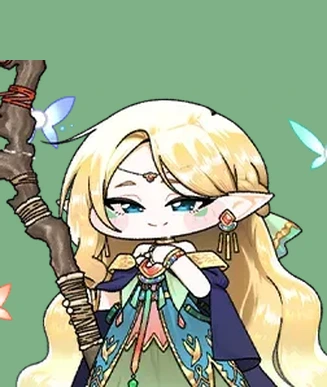
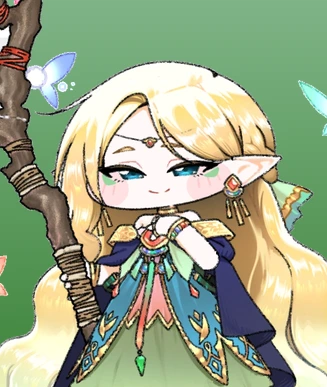
아이리스 카드 그림을 애니메이션에서 선명하게 다시 캡처, 표정 4종 제거
Claude-Session: https://claude.ai/code/session_01JyK9TdKp8mjbhrzUS8LgdW

diff --git a/index.html b/index.html
@@ -5,7 +5,7 @@
   <meta name="viewport" content="width=device-width, initial-scale=1, viewport-fit=cover">
   <title>트릭스터디 ~교주님 공부하세요!~</title>
   <meta name="description" content="트릭컬 사도들과 함께하는 공부 타이머 · 퀘스트 · 사도 모집">
-  <link rel="icon" href="assets/chibi/erpin.webp?v=13.99">
+  <link rel="icon" href="assets/chibi/erpin.webp?v=14.00">
   <link rel="preconnect" href="https://fonts.googleapis.com">
   <link rel="preconnect" href="https://fonts.gstatic.com" crossorigin>
   <link href="https://fonts.googleapis.com/css2?family=Jua&family=Gowun+Dodum&display=swap" rel="stylesheet">
@@ -13,8 +13,8 @@
     try { if (localStorage.getItem("trickstudy-mode") === "plain") document.documentElement.classList.add("plain"); } catch (e) {}
   </script>
   <link rel="stylesheet" href="css/spine-player.css">
-  <link rel="stylesheet" href="css/style.css?v=13.99">
-  <link rel="stylesheet" href="css/notebook.css?v=13.99" id="nb-css">
+  <link rel="stylesheet" href="css/style.css?v=14.00">
+  <link rel="stylesheet" href="css/notebook.css?v=14.00" id="nb-css">
   <script>/* 📓 기본 디자인 = 「교주의 공부 수첩」 틀 (오른쪽 색인 탭). 예전 배치는 주소 끝에 ?design=classic */
     (function () { if (new URLSearchParams(location.search).get("design") === "classic") { var l = document.getElementById("nb-css"); if (l) l.remove(); return; }
       document.documentElement.classList.add("nb"); })();
@@ -353,64 +353,64 @@
   <div id="modal-root"></div>
   <div id="toasts"></div>
 
-  <script src="js/sado.js?v=13.99"></script>
+  <script src="js/sado.js?v=14.00"></script>
   <script src="js/vendor/spine-player.min.js"></script>
-  <script src="js/spine-fix.js?v=13.99"></script>
-  <script src="js/spine-data.js?v=13.99"></script>
-  <script src="js/artifacts.js?v=13.99"></script>
-  <script src="js/ssbg-list.js?v=13.99"></script>
-  <script src="js/data.js?v=13.99"></script>
-  <script src="js/voice-text.js?v=13.99"></script>
-  <script src="js/sado-voice.js?v=13.99"></script>
-  <script src="js/sado-touch.js?v=13.99"></script>
-  <script src="js/app.js?v=13.99"></script>
-  <script src="js/affection.js?v=13.99"></script>
-  <script src="js/keepsakes.js?v=13.99"></script>
-  <script src="js/kyoju-note.js?v=13.99"></script>
-  <script src="js/banquet.js?v=13.99"></script>
-  <script src="js/phone.js?v=13.99"></script>
-  <script src="js/balance.js?v=13.99"></script>
-  <script src="js/profile.js?v=13.99"></script>
-  <script src="js/battle-lines.js?v=13.99"></script>
-  <script src="js/boss.js?v=13.99"></script>
-  <script src="js/party.js?v=13.99"></script>
-  <script src="js/schedule.js?v=13.99"></script>
-  <script src="js/grass.js?v=13.99"></script>
-  <script src="js/pip.js?v=13.99"></script>
-  <script src="js/emopip.js?v=13.99"></script>
-  <script src="js/ranking.js?v=13.99"></script>
-  <script src="js/bgm.js?v=13.99"></script>
-  <script src="js/title.js?v=13.99"></script>
-  <script src="js/event.js?v=13.99"></script>
-  <script src="js/season.js?v=13.99"></script>
-  <script src="js/growth.js?v=13.99"></script>
-  <script src="js/yearly.js?v=13.99"></script>
-  <script src="js/talk.js?v=13.99"></script>
-  <script src="js/knockgame.js?v=13.99"></script>
-  <script src="js/extras.js?v=13.99"></script>
-  <script src="js/tutorial.js?v=13.99"></script>
-  <script src="js/fixsubj.js?v=13.99"></script>
-  <script src="js/sync.js?v=13.99"></script>
-  <script src="js/r3.js?v=13.99"></script>
-  <script src="js/live.js?v=13.99"></script>
-  <script src="js/screensaver.js?v=13.99"></script>
-  <script src="js/pet.js?v=13.99"></script>
-  <script src="js/story-data.js?v=13.99"></script>
-  <script src="js/cg-catalog.js?v=13.99"></script>
-  <script src="js/theme-info.js?v=13.99"></script>
-  <script src="js/cg-video-map.js?v=13.99"></script>
-  <script src="js/story-data2.js?v=13.99"></script>
-  <script src="js/story-extra.js?v=13.99"></script>
-  <script src="js/story-s3.js?v=13.99"></script>
-  <script src="js/story-tt.js?v=13.99"></script>
-  <script src="js/story-refine.js?v=13.99"></script>
-  <script src="js/achieve-more.js?v=13.99"></script>
-  <script src="js/story.js?v=13.99"></script>
-  <script src="js/date.js?v=13.99"></script>
-  <script src="js/cgalbum.js?v=13.99"></script>
-  <script src="js/letter.js?v=13.99"></script>
-  <script src="js/studyroom.js?v=13.99"></script>
-  <script src="js/note-store.js?v=13.99"></script>
-  <script src="js/notes.js?v=13.99"></script>
+  <script src="js/spine-fix.js?v=14.00"></script>
+  <script src="js/spine-data.js?v=14.00"></script>
+  <script src="js/artifacts.js?v=14.00"></script>
+  <script src="js/ssbg-list.js?v=14.00"></script>
+  <script src="js/data.js?v=14.00"></script>
+  <script src="js/voice-text.js?v=14.00"></script>
+  <script src="js/sado-voice.js?v=14.00"></script>
+  <script src="js/sado-touch.js?v=14.00"></script>
+  <script src="js/app.js?v=14.00"></script>
+  <script src="js/affection.js?v=14.00"></script>
+  <script src="js/keepsakes.js?v=14.00"></script>
+  <script src="js/kyoju-note.js?v=14.00"></script>
+  <script src="js/banquet.js?v=14.00"></script>
+  <script src="js/phone.js?v=14.00"></script>
+  <script src="js/balance.js?v=14.00"></script>
+  <script src="js/profile.js?v=14.00"></script>
+  <script src="js/battle-lines.js?v=14.00"></script>
+  <script src="js/boss.js?v=14.00"></script>
+  <script src="js/party.js?v=14.00"></script>
+  <script src="js/schedule.js?v=14.00"></script>
+  <script src="js/grass.js?v=14.00"></script>
+  <script src="js/pip.js?v=14.00"></script>
+  <script src="js/emopip.js?v=14.00"></script>
+  <script src="js/ranking.js?v=14.00"></script>
+  <script src="js/bgm.js?v=14.00"></script>
+  <script src="js/title.js?v=14.00"></script>
+  <script src="js/event.js?v=14.00"></script>
+  <script src="js/season.js?v=14.00"></script>
+  <script src="js/growth.js?v=14.00"></script>
+  <script src="js/yearly.js?v=14.00"></script>
+  <script src="js/talk.js?v=14.00"></script>
+  <script src="js/knockgame.js?v=14.00"></script>
+  <script src="js/extras.js?v=14.00"></script>
+  <script src="js/tutorial.js?v=14.00"></script>
+  <script src="js/fixsubj.js?v=14.00"></script>
+  <script src="js/sync.js?v=14.00"></script>
+  <script src="js/r3.js?v=14.00"></script>
+  <script src="js/live.js?v=14.00"></script>
+  <script src="js/screensaver.js?v=14.00"></script>
+  <script src="js/pet.js?v=14.00"></script>
+  <script src="js/story-data.js?v=14.00"></script>
+  <script src="js/cg-catalog.js?v=14.00"></script>
+  <script src="js/theme-info.js?v=14.00"></script>
+  <script src="js/cg-video-map.js?v=14.00"></script>
+  <script src="js/story-data2.js?v=14.00"></script>
+  <script src="js/story-extra.js?v=14.00"></script>
+  <script src="js/story-s3.js?v=14.00"></script>
+  <script src="js/story-tt.js?v=14.00"></script>
+  <script src="js/story-refine.js?v=14.00"></script>
+  <script src="js/achieve-more.js?v=14.00"></script>
+  <script src="js/story.js?v=14.00"></script>
+  <script src="js/date.js?v=14.00"></script>
+  <script src="js/cgalbum.js?v=14.00"></script>
+  <script src="js/letter.js?v=14.00"></script>
+  <script src="js/studyroom.js?v=14.00"></script>
+  <script src="js/note-store.js?v=14.00"></script>
+  <script src="js/notes.js?v=14.00"></script>
 </body>
 </html>

diff --git a/js/title.js b/js/title.js
@@ -82,7 +82,7 @@ function showScene(done, mainId) {
   root.innerHTML = `
     <div class="ttl-bg" style="background-image:url('assets/title-bg.webp')"></div>
     <div class="ttl-logo"><span class="l2">트릭스터디</span><span class="l1">~교주님 공부하세요!~</span></div>
-    <div class="ttl-ver">Ver 13.99 · 교주 전용</div>
+    <div class="ttl-ver">Ver 14.00 · 교주 전용</div>
     <div class="ttl-copy">♥ Trickcal fan-made study</div>
     <div class="ttl-cast">${cast.map((id, i) => `<div class="ttl-actor a${i}" data-id="${id}"></div>`).join("")}</div>
     <div class="ttl-sweep"></div>
@@ -190,7 +190,7 @@ function show(done) {
   root.innerHTML = `
     <div class="ttl-bg" style="background-image:url('${bgSrc(s.bg || "trickcal")}')"></div>
     <div class="ttl-logo"><span class="l2">트릭스터디</span><span class="l1">~교주님 공부하세요!~</span></div>
-    <div class="ttl-ver">Ver 13.99 · 교주 전용</div>
+    <div class="ttl-ver">Ver 14.00 · 교주 전용</div>
     <div class="ttl-copy">♥ Trickcal fan-made study</div>
     <div class="ttl-face" id="ttl-face">
       <img id="ttl-img" src="${src}" alt="" draggable="false">

diff --git a/js/sado.js b/js/sado.js
@@ -99,7 +99,7 @@ const SADO = [
   { id: "pira", name: "피라", en: "Pira", rarity: 3, pers: "mad" },
   { id: "polan", name: "폴랑", en: "Polan", rarity: 3, pers: "mad" },
   { id: "renewa", name: "리뉴아", en: "Renewa", rarity: 3, lim: true, pers: "mad" },
-  { id: "iris", name: "아이리스", en: "Iris", rarity: 3, pers: "pure", emote: true }, // 2026.11 신규 (엘프 · 후열 딜러)
+  { id: "iris", name: "아이리스", en: "Iris", rarity: 3, pers: "pure" }, // 2026.11 신규 (엘프 · 후열 딜러)
   { id: "rim-chaos", name: "림(혼돈)", en: "Rim (Chaos)", rarity: 3, pers: "mad" },
   { id: "rollett", name: "룰렛", en: "Rollett", rarity: 3, pers: "mad" },
   { id: "ronnie", name: "로니", en: "Ronnie", rarity: 3, pers: "mad" },

diff --git a/js/app.js b/js/app.js
@@ -155,7 +155,7 @@ const titleOf = (c) => (SPECIAL_LINES[c.id] && SPECIAL_LINES[c.id].title) || `${
 const stars = (r) => "★".repeat(r);
 
 /* ───── 이미지 ───── */
-const chibiSrc = (c) => (isPlain() ? plainAvatar(c) : `assets/chibi/${c.id}.webp?v=2`);
+const chibiSrc = (c) => (isPlain() ? plainAvatar(c) : `assets/chibi/${c.id}.webp?v=3`);
 const emoteSrc = (c, i = 1) => (isPlain() ? plainAvatar(c) : c.emote ? `assets/emotes/${c.id}/${i}.webp` : chibiSrc(c)); // ?v= : 이미지를 바꾸면 숫자를 올려서 브라우저 캐시 무시
 const emoteCount = (c) => (c.emote && state.owned[c.id] ? state.owned[c.id].emo || 1 : 0);
 function portrait(c, randomEmote = false) {

diff --git a/record.html b/record.html
@@ -118,8 +118,8 @@ textarea[readonly] { background: #fbf7ee; }
 <div id="bgm"><span id="bgmName">🎵 BGM 꺼짐</span><button class="btn small" id="bgmPlay">▶</button><button class="btn small" id="bgmNext">⏭</button></div>
 <div id="toast"></div>
 
-<script src="js/sado.js?v=13.99"></script>
-<script src="js/ssbg-list.js?v=13.99"></script>
+<script src="js/sado.js?v=14.00"></script>
+<script src="js/ssbg-list.js?v=14.00"></script>
 <script>
 "use strict";
 const $ = (id) => document.getElementById(id);
